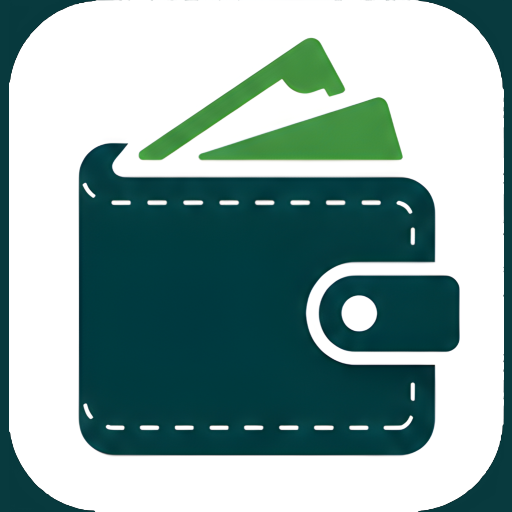
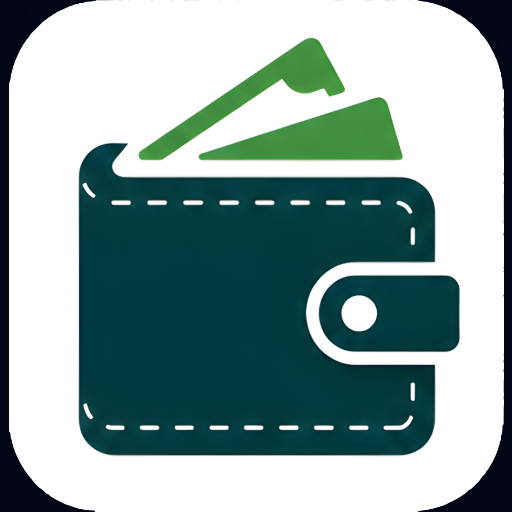
Trying to change the way of displaying background app colours on phisical devices

Changed region(s): [[0.0, 0.0, 0.1875, 1.0], [0.8438, 0.0, 1.0, 1.0]]

diff --git a/src/theme/__tests__/theme.test.ts b/src/theme/__tests__/theme.test.ts
@@ -101,4 +101,85 @@ describe('Theme System', () => {
       expect(darkTheme.colors.accent).toBe(palette.sky400);
     });
   });
+
+  describe('ThemeProvider Meta Tag & DOM Sync', () => {
+    const originalDocument = (global as any).document;
+
+    afterEach(() => {
+      if (originalDocument) {
+        (global as any).document = originalDocument;
+      } else {
+        delete (global as any).document;
+      }
+    });
+
+    it('syncs theme-color, msapplication-TileColor and apple status bar meta tags for dark and light modes', () => {
+      const metaTags: Record<string, string> = {};
+      const docStyle: Record<string, any> = {};
+      const bodyStyle: Record<string, any> = {};
+      const rootStyle: Record<string, any> = {};
+
+      const mockDoc: any = {
+        documentElement: { style: docStyle },
+        body: { style: bodyStyle },
+        head: {
+          appendChild: (node: any) => {
+            const name = node.getAttribute('name');
+            const content = node.getAttribute('content');
+            if (name) metaTags[name] = content;
+          },
+        },
+        getElementById: (id: string) => (id === 'root' ? { style: rootStyle } : null),
+        querySelector: (selector: string) => {
+          const match = selector.match(/name="([^"]+)"/);
+          if (match && metaTags[match[1]] !== undefined) {
+            const name = match[1];
+            return {
+              setAttribute: (k: string, v: string) => {
+                if (k === 'content') metaTags[name] = v;
+              },
+              getAttribute: (k: string) => (k === 'content' ? metaTags[name] : null),
+            };
+          }
+          return null;
+        },
+        createElement: (tag: string) => {
+          const attrs: Record<string, string> = {};
+          return {
+            setAttribute: (k: string, v: string) => {
+              attrs[k] = v;
+              if (attrs.name && attrs.content) {
+                metaTags[attrs.name] = attrs.content;
+              }
+            },
+            getAttribute: (k: string) => attrs[k] || null,
+          };
+        },
+      };
+
+      (global as any).document = mockDoc;
+
+      const { applyThemeToDocument } = require('../ThemeContext');
+
+      // 1. Test dark mode sync
+      applyThemeToDocument('dark');
+      expect(metaTags['theme-color']).toBe(darkTheme.colors.background);
+      expect(metaTags['msapplication-TileColor']).toBe(darkTheme.colors.background);
+      expect(metaTags['apple-mobile-web-app-status-bar-style']).toBe('black-translucent');
+      expect(docStyle.backgroundColor).toBe(darkTheme.colors.background);
+      expect(docStyle.colorScheme).toBe('dark');
+      expect(bodyStyle.backgroundColor).toBe(darkTheme.colors.background);
+      expect(rootStyle.backgroundColor).toBe(darkTheme.colors.background);
+
+      // 2. Test light mode sync
+      applyThemeToDocument('light');
+      expect(metaTags['theme-color']).toBe(lightTheme.colors.background);
+      expect(metaTags['msapplication-TileColor']).toBe(lightTheme.colors.background);
+      expect(metaTags['apple-mobile-web-app-status-bar-style']).toBe('default');
+      expect(docStyle.backgroundColor).toBe(lightTheme.colors.background);
+      expect(docStyle.colorScheme).toBe('light');
+      expect(bodyStyle.backgroundColor).toBe(lightTheme.colors.background);
+      expect(rootStyle.backgroundColor).toBe(lightTheme.colors.background);
+    });
+  });
 });

diff --git a/src/theme/ThemeContext.tsx b/src/theme/ThemeContext.tsx
@@ -56,6 +56,45 @@ export function setStoredThemeMode(mode: ThemeMode): void {
   }
 }
 
+export function applyThemeToDocument(mode: ThemeMode): void {
+  if (typeof document === 'undefined') return;
+
+  const activeBg = mode === 'dark' ? darkTheme.colors.background : lightTheme.colors.background;
+  const activeText = mode === 'dark' ? darkTheme.colors.textPrimary : lightTheme.colors.textPrimary;
+
+  if (document.documentElement) {
+    document.documentElement.style.backgroundColor = activeBg;
+    document.documentElement.style.colorScheme = mode;
+  }
+  if (document.body) {
+    document.body.style.backgroundColor = activeBg;
+    document.body.style.color = activeText;
+  }
+  const rootEl = document.getElementById('root');
+  if (rootEl) {
+    rootEl.style.backgroundColor = activeBg;
+  }
+
+  // Update meta tags for browser status bar and system navigation bar colors
+  const setMetaTag = (attrName: string, attrVal: string, content: string) => {
+    let meta = document.querySelector(`meta[${attrName}="${attrVal}"]`);
+    if (!meta) {
+      meta = document.createElement('meta');
+      meta.setAttribute(attrName, attrVal);
+      document.head.appendChild(meta);
+    }
+    meta.setAttribute('content', content);
+  };
+
+  setMetaTag('name', 'theme-color', activeBg);
+  setMetaTag('name', 'msapplication-TileColor', activeBg);
+  setMetaTag(
+    'name',
+    'apple-mobile-web-app-status-bar-style',
+    mode === 'dark' ? 'black-translucent' : 'default'
+  );
+}
+
 export interface ThemeProviderProps {
   children: React.ReactNode;
   initialMode?: ThemeMode;
@@ -75,23 +114,7 @@ export const ThemeProvider: React.FC<ThemeProviderProps> = ({ children, initialM
   };
 
   useEffect(() => {
-    if (typeof document !== 'undefined') {
-      const activeBg = mode === 'dark' ? darkTheme.colors.background : lightTheme.colors.background;
-      const activeText = mode === 'dark' ? darkTheme.colors.textPrimary : lightTheme.colors.textPrimary;
-
-      if (document.documentElement) {
-        document.documentElement.style.backgroundColor = activeBg;
-        document.documentElement.style.colorScheme = mode;
-      }
-      if (document.body) {
-        document.body.style.backgroundColor = activeBg;
-        document.body.style.color = activeText;
-      }
-      const rootEl = document.getElementById('root');
-      if (rootEl) {
-        rootEl.style.backgroundColor = activeBg;
-      }
-    }
+    applyThemeToDocument(mode);
   }, [mode]);
 
   const value = useMemo<ThemeContextValue>(() => {

diff --git a/scripts/generate-web-icons.js b/scripts/generate-web-icons.js
@@ -106,7 +106,7 @@ async function generateAssets() {
   console.log(`📌 Source Icon: ${path.relative(PROJECT_ROOT, sourceIcon)} (hash: ${iconHash}, version: ${appVersion || 'n/a'})`);
   console.log(`📌 Favicon Source: ${path.relative(PROJECT_ROOT, faviconSource)}`);
 
-  const themeColor = (expoConfig.web && expoConfig.web.themeColor) || '#083a3e';
+  const themeColor = (expoConfig.web && expoConfig.web.themeColor) || '#020617';
   const appName = (expoConfig.web && expoConfig.web.name) || expoConfig.name || 'FinancesOrganiser';
   const shortName = (expoConfig.web && expoConfig.web.shortName) || expoConfig.slug || 'FinancesOrganiser';
   const lang = (expoConfig.web && expoConfig.web.lang) || 'en';

diff --git a/public/index.html b/public/index.html
@@ -7,8 +7,8 @@
     <title>%WEB_TITLE%</title>
 
     <!-- Theme & Colors -->
-    <meta name="theme-color" content="#083a3e" />
-    <meta name="msapplication-TileColor" content="#083a3e" />
+    <meta name="theme-color" content="#020617" />
+    <meta name="msapplication-TileColor" content="#020617" />
 
     <!-- Web App & PWA Capabilities -->
     <link rel="manifest" href="/manifest.json?v=71b5af85" />
